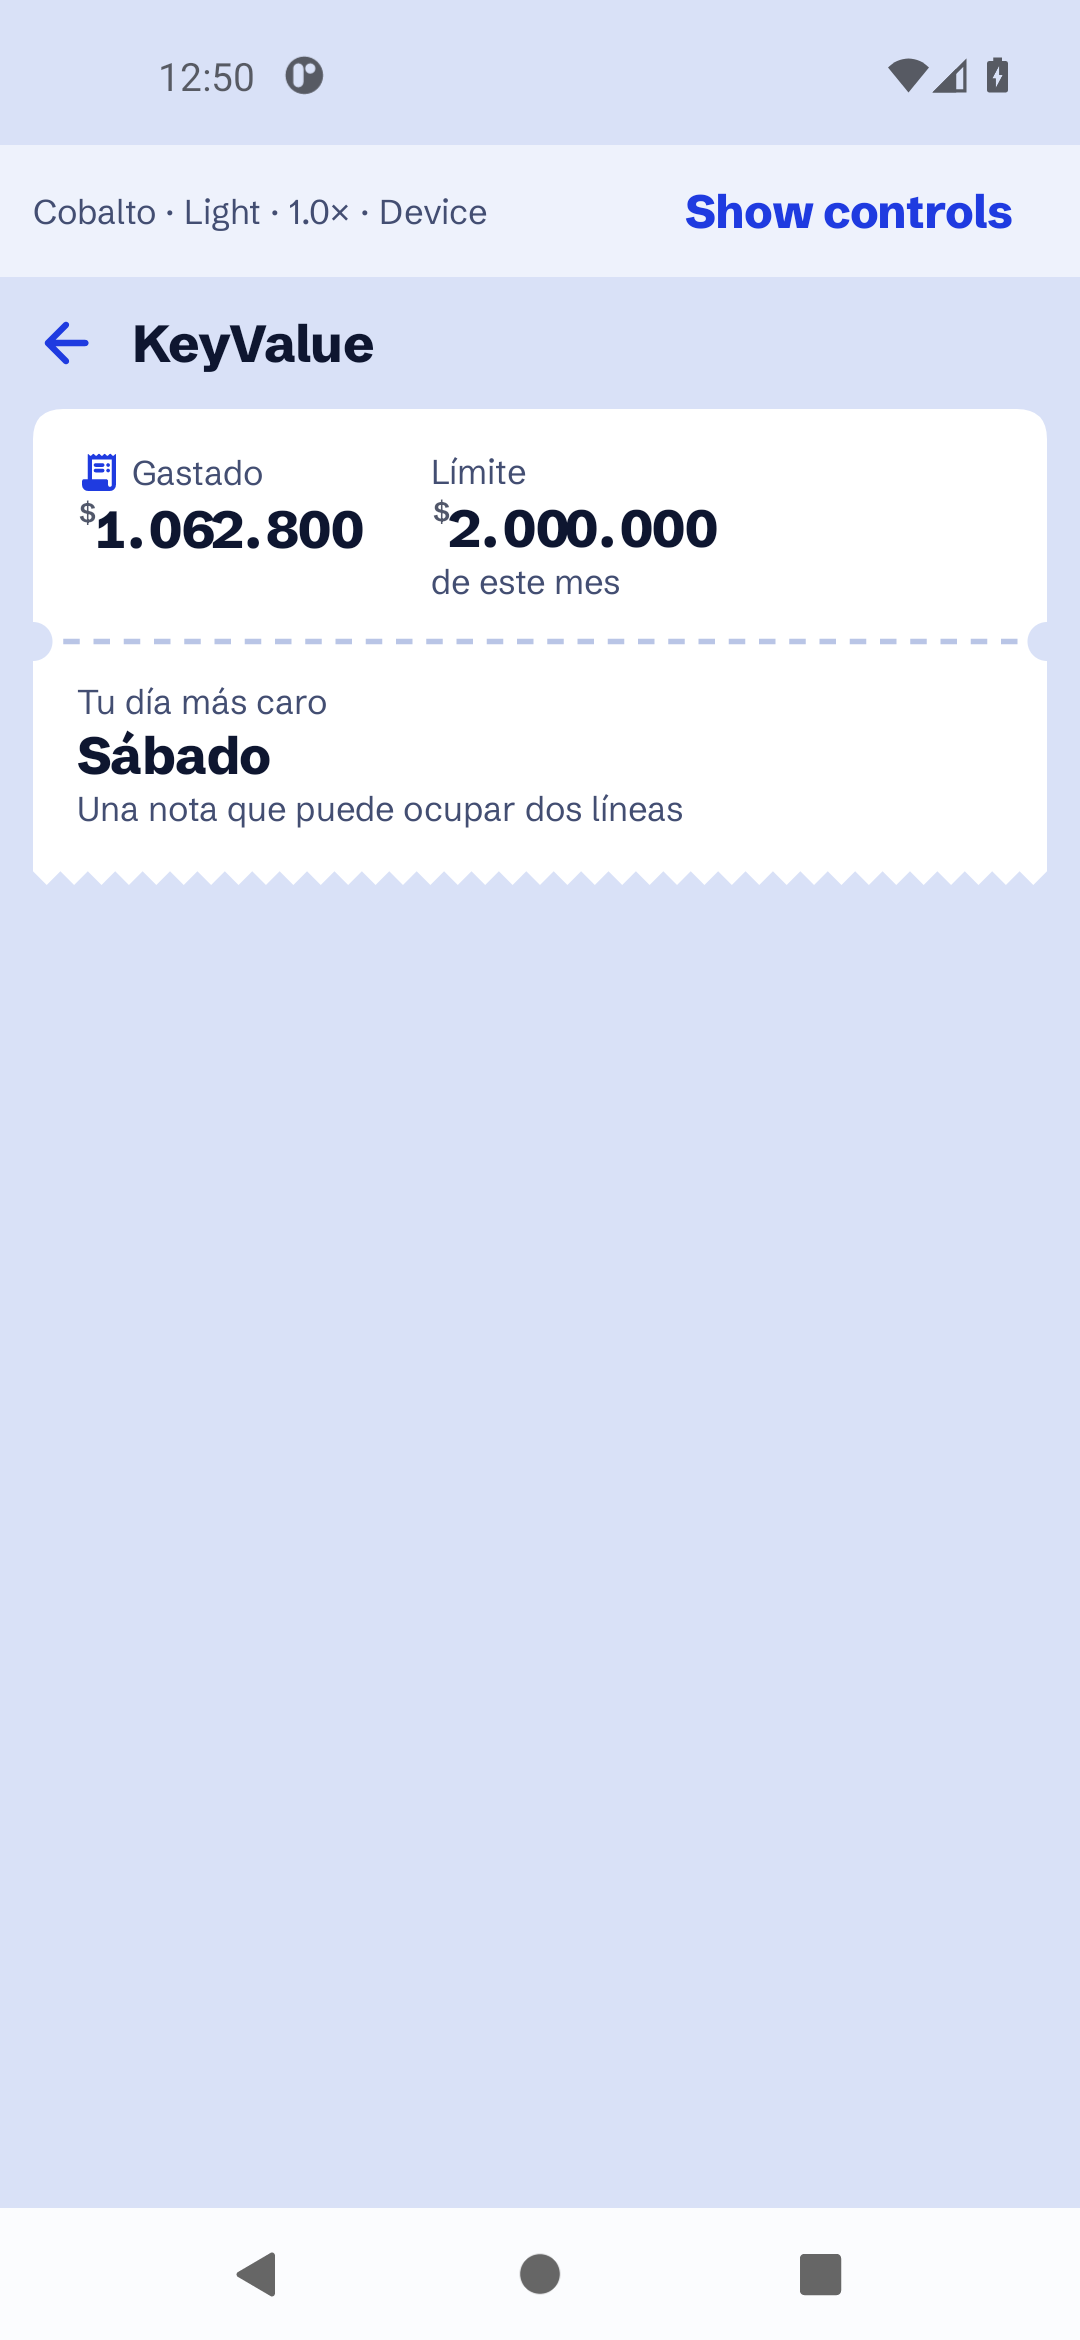
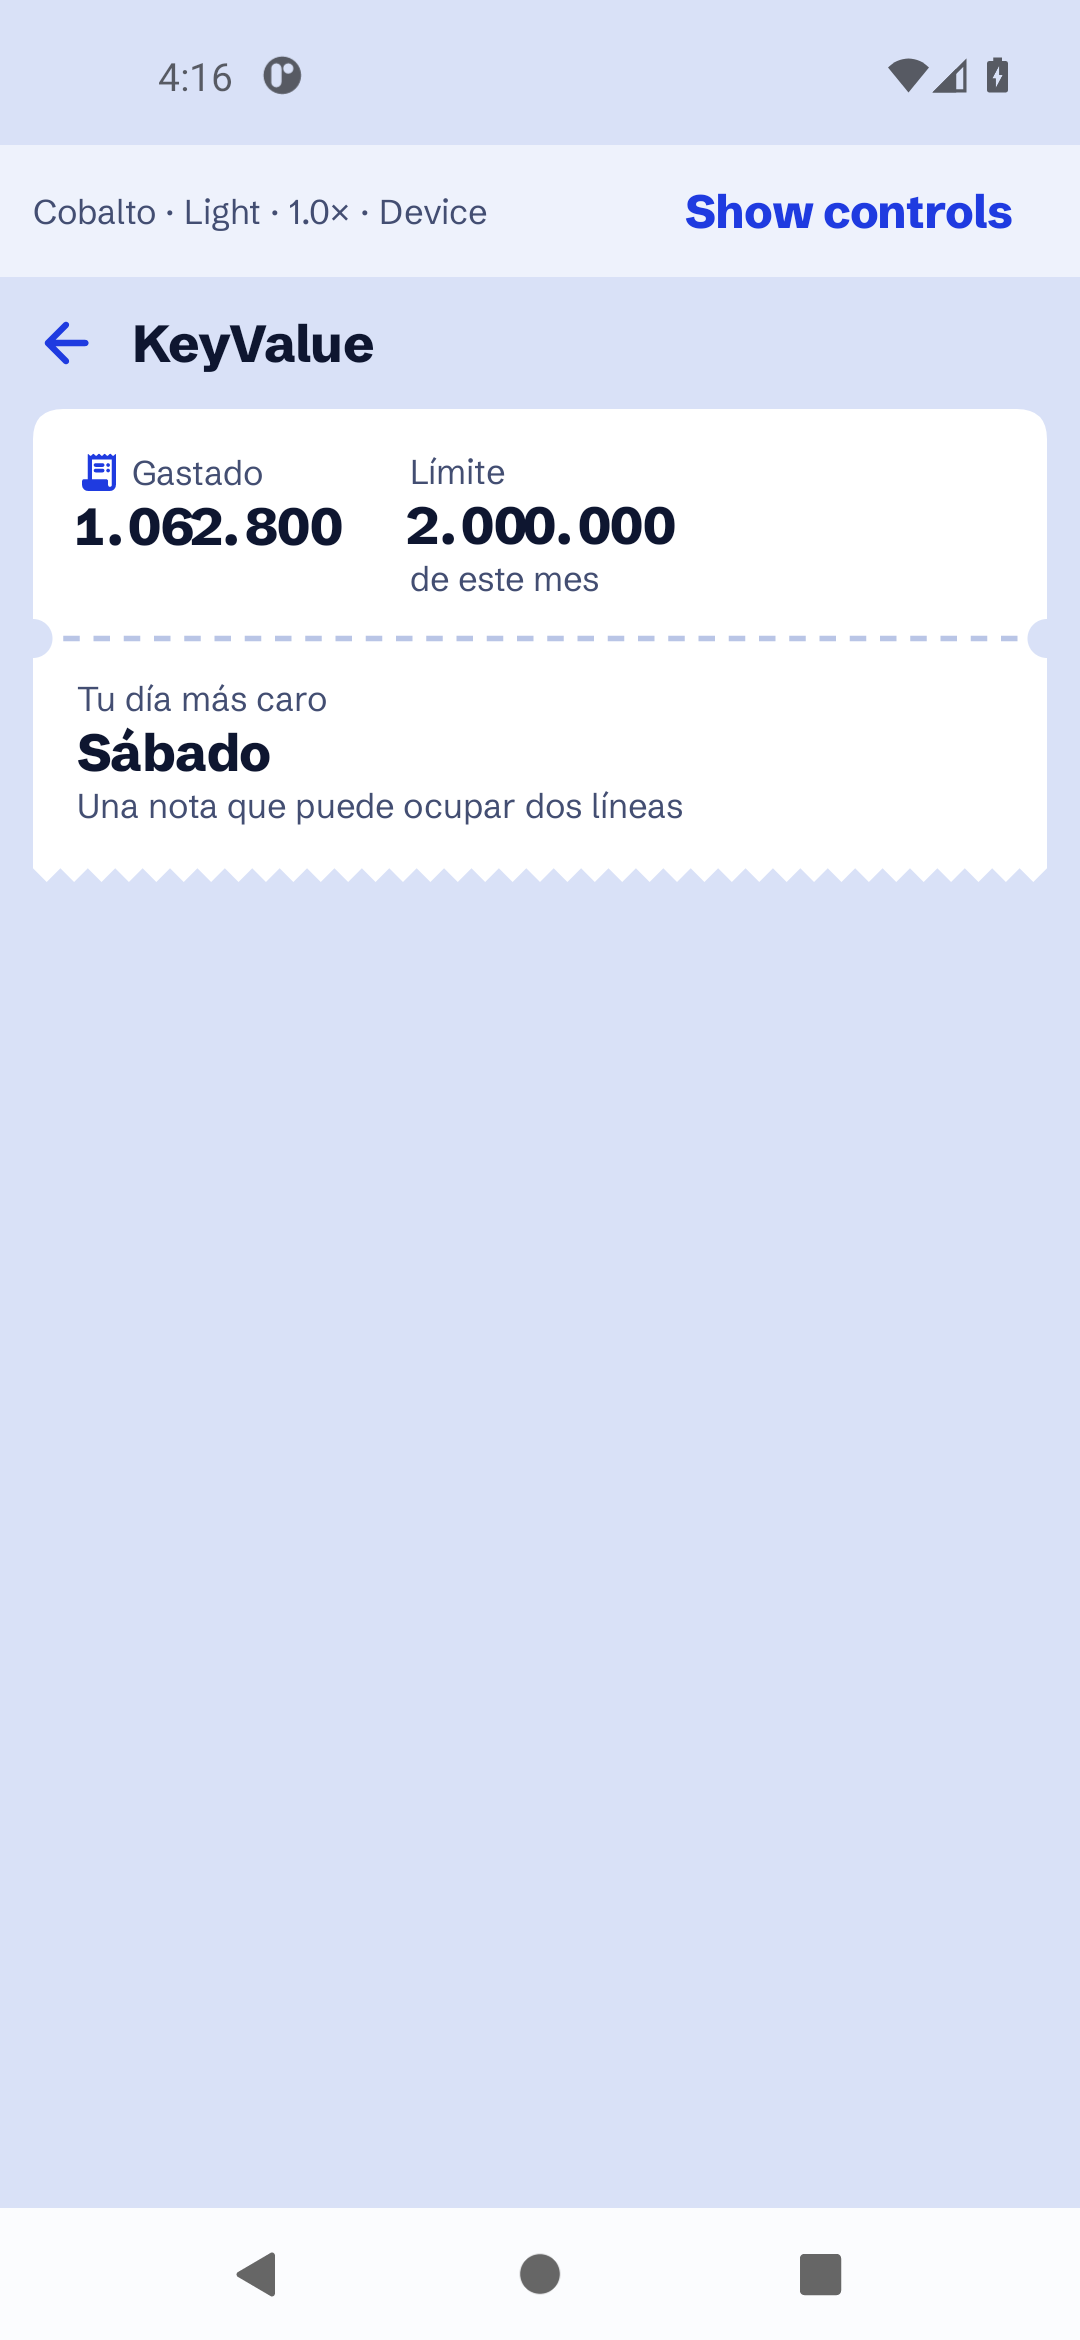
feat: show pesos without a currency symbol and space currency codes

diff --git a/design-system/src/test/java/com/software/sello/designsystem/component/MoneyTextRenderTest.kt b/design-system/src/test/java/com/software/sello/designsystem/component/MoneyTextRenderTest.kt
@@ -9,7 +9,7 @@ import org.junit.Assert.assertTrue
 import org.junit.Test
 
 class MoneyTextRenderTest {
-    private fun value(sign: MoneySign, digits: String, symbol: String = "$") =
+    private fun value(sign: MoneySign, digits: String, symbol: String = "") =
         MoneyTextValue(sign, symbol, digits, "spoken")
 
     private val style = TextStyle(fontSize = 60.sp, letterSpacing = (-0.04).em)
@@ -18,16 +18,16 @@ class MoneyTextRenderTest {
         moneyAnnotatedString(value, style, this.style).text.replace("\u200B", "")
 
     @Test
-    fun theFullFigureIsDrawnWithItsSymbolAndATrueMinus() {
-        assertEquals("$937.200", drawn(value(MoneySign.None, "937.200"), MoneyStyle.Hero))
-        assertEquals("+$850.000", drawn(value(MoneySign.Plus, "850.000"), MoneyStyle.Total))
-        assertEquals("\u2212$10.000", drawn(value(MoneySign.Minus, "10.000"), MoneyStyle.Card))
+    fun theFullFigureIsDrawnWithATrueMinusAndNoMarkForPesos() {
+        assertEquals("937.200", drawn(value(MoneySign.None, "937.200"), MoneyStyle.Hero))
+        assertEquals("+850.000", drawn(value(MoneySign.Plus, "850.000"), MoneyStyle.Total))
+        assertEquals("\u221210.000", drawn(value(MoneySign.Minus, "10.000"), MoneyStyle.Card))
         assertEquals(
-            "\u2212$9.223.372.036.854.775.808",
+            "\u22129.223.372.036.854.775.808",
             drawn(value(MoneySign.Minus, "9.223.372.036.854.775.808"), MoneyStyle.Title)
         )
         assertEquals(
-            "USD2.340,00",
+            "USD\u00A02.340,00",
             drawn(value(MoneySign.None, "2.340,00", "USD"), MoneyStyle.Title)
         )
     }
@@ -55,14 +55,17 @@ class MoneyTextRenderTest {
             style
         ).text
         val pieces = text.split("\u200B")
-        assertEquals(listOf("$9.", "223.", "372.", "036.", "854.", "775.", "807"), pieces)
+        assertEquals(listOf("9.", "223.", "372.", "036.", "854.", "775.", "807"), pieces)
     }
 
     @Test
-    fun thousandsPointsAreTightenedAndTheSymbolIsSmallAndRaised() {
-        val text = moneyAnnotatedString(value(MoneySign.None, "1.234"), MoneyStyle.Hero, style)
-        val symbol = text.spanStyles.last { it.item.fontSize == 0.56.em }
-        assertEquals("$", text.text.substring(symbol.start, symbol.end))
+    fun thousandsPointsAreTightenedAndACurrencyCodeIsSmallAndRaised() {
+        val pesos = moneyAnnotatedString(value(MoneySign.None, "1.234"), MoneyStyle.Hero, style)
+        assertTrue(pesos.spanStyles.none { it.item.fontSize == 0.56.em })
+        val text =
+            moneyAnnotatedString(value(MoneySign.None, "1.234", "USD"), MoneyStyle.Hero, style)
+        val symbol = text.spanStyles.single { it.item.fontSize == 0.56.em }
+        assertEquals("USD\u00A0", text.text.substring(symbol.start, symbol.end))
         assertTrue(symbol.item.baselineShift!!.multiplier > 0f)
         // The style's own -0.04em tracking plus 0.13em of tightening.
         val tight = text.spanStyles.filter { abs(it.item.letterSpacing.value + 0.17f) < 1e-4f }
@@ -76,8 +79,8 @@ class MoneyTextRenderTest {
             MoneyStyle.Title,
             style
         )
-        val wide = text.spanStyles.single { it.item.letterSpacing == 0.14.em }
-        assertEquals("D", text.text.substring(wide.start, wide.end))
+        // The code is followed by a space that cannot become a line break.
+        assertEquals("USD\u00A02.340,00", text.text.replace("\u200B", ""))
         val tight = text.spanStyles.filter { abs(it.item.letterSpacing.value + 0.17f) < 1e-4f }
         assertEquals(
             listOf("2", ".", "0", ","),

diff --git a/design-system/src/androidTest/java/com/software/sello/designsystem/component/MoneySemanticsTest.kt b/design-system/src/androidTest/java/com/software/sello/designsystem/component/MoneySemanticsTest.kt
@@ -27,7 +27,7 @@ class MoneySemanticsTest {
     val rule = createComposeRule()
 
     private fun cop(sign: MoneySign, digits: String, spoken: String) =
-        MoneyTextValue(sign, "$", digits, spoken)
+        MoneyTextValue(sign, "", digits, spoken)
 
     private fun fixture(pesos: Long): MoneyTextValue {
         val digits = pesos.toString().reversed().chunked(3).joinToString(".").reversed()
@@ -62,13 +62,13 @@ class MoneySemanticsTest {
             }
         ) {
             rule.onNodeWithTag("hero").assertContentDescriptionEquals("937.200 pesos")
-            rule.onNodeWithTag("hero").assertTextEquals("$937.200")
+            rule.onNodeWithTag("hero").assertTextEquals("937.200")
             rule.onNodeWithTag("loss").assertContentDescriptionEquals("menos 10.000 pesos")
-            rule.onNodeWithTag("loss").assertTextEquals("\u2212$10.000")
+            rule.onNodeWithTag("loss").assertTextEquals("\u221210.000")
             rule.onNodeWithTag("line").assertContentDescriptionEquals("más 850.000 pesos")
             rule.onNodeWithTag("line").assertTextEquals("+850.000")
             rule.onNodeWithTag("usd").assertContentDescriptionEquals("2.340,00 USD")
-            rule.onNodeWithTag("usd").assertTextEquals("USD2.340,00")
+            rule.onNodeWithTag("usd").assertTextEquals("USD\u00A02.340,00")
         }
     }
 
@@ -102,7 +102,7 @@ class MoneySemanticsTest {
                 rule.onNodeWithTag(tag).assertContentDescriptionEquals(max.spoken)
                 rule.onNodeWithTag(tag).assertTextEquals(
                     if (tag == "hero") {
-                        "\u2212$9.223.372.036.854.775.808"
+                        "\u22129.223.372.036.854.775.808"
                     } else {
                         "\u22129.223.372.036.854.775.808"
                     }
@@ -126,12 +126,12 @@ class MoneySemanticsTest {
             }
         }
         rule.mainClock.advanceTimeByFrame()
-        rule.onNodeWithTag("count").assertTextEquals("$0")
+        rule.onNodeWithTag("count").assertTextEquals("0")
 
         amount = 937_200
         rule.mainClock.advanceTimeByFrame()
         rule.mainClock.advanceTimeByFrame()
-        rule.onNodeWithTag("count").assertTextEquals("$937.200")
+        rule.onNodeWithTag("count").assertTextEquals("937.200")
         rule.onNodeWithTag("count").assertContentDescriptionEquals("937.200 pesos")
     }
 
@@ -146,7 +146,7 @@ class MoneySemanticsTest {
         }
         rule.mainClock.advanceTimeByFrame()
         // The first appearance does not count up from zero.
-        rule.onNodeWithTag("count").assertTextEquals("$0")
+        rule.onNodeWithTag("count").assertTextEquals("0")
 
         amount = 999_999_999_999
         rule.mainClock.advanceTimeBy(200)
@@ -155,10 +155,10 @@ class MoneySemanticsTest {
             .config[androidx.compose.ui.semantics.SemanticsProperties.Text].single().text
         assertTrue(
             "still counting at 200 ms: $midway",
-            midway != "$0" && midway != "$999.999.999.999"
+            midway != "0" && midway != "999.999.999.999"
         )
 
         rule.mainClock.advanceTimeBy(400)
-        rule.onNodeWithTag("count").assertTextEquals("$999.999.999.999")
+        rule.onNodeWithTag("count").assertTextEquals("999.999.999.999")
     }
 }

diff --git a/design-system/src/main/java/com/software/sello/designsystem/component/MoneyText.kt b/design-system/src/main/java/com/software/sello/designsystem/component/MoneyText.kt
@@ -39,7 +39,8 @@ enum class MoneySign { None, Plus, Minus }
  * An amount already formatted by the application: the design system draws it and
  * never computes, rounds or abbreviates it.
  *
- * @param symbol the currency mark drawn small and raised, such as `$` or `USD`.
+ * @param symbol the currency code drawn small and raised before the figure, such as
+ * `USD`; empty for pesos, which carry no mark.
  * @param digits the full grouped figure without sign or symbol, such as `937.200`.
  * @param spoken what a screen reader says, with the currency: `937.200 pesos`.
  */
@@ -51,11 +52,11 @@ data class MoneyTextValue(
     val spoken: String
 )
 
-/** Hero 60sp, Total 44sp, Card 32sp, Title 19sp, Line 14sp. Line drops the symbol. */
+/** Hero 60sp, Total 44sp, Card 32sp, Title 19sp, Line 14sp. Line drops the currency code. */
 enum class MoneyStyle { Hero, Total, Card, Title, Line }
 
 /**
- * The only way an amount is drawn: raised currency mark, tabular figures, tightened
+ * The only way an amount is drawn: tabular figures, a raised currency code, tightened
  * thousands points and a true minus. A figure too wide for its place wraps between
  * groups, never clips; Hero first steps down to Total.
  */
@@ -161,6 +162,9 @@ private fun MoneyStyle.textStyle(weight: FontWeight?): TextStyle {
 private const val TRUE_MINUS = "\u2212"
 private const val ZERO_WIDTH_SPACE = "\u200B"
 private const val GROUP_POINT = '.'
+
+/** A space between a currency code and its figure that never becomes a line break. */
+private const val MARK_GAP = "\u00A0"
 private const val DECIMAL_COMMA = ','
 private const val SYMBOL_ALPHA = 0.72f
 
@@ -173,9 +177,12 @@ private fun signText(sign: MoneySign) = when (sign) {
     MoneySign.Minus -> TRUE_MINUS
 }
 
+private fun markText(value: MoneyTextValue, style: MoneyStyle) =
+    if (style == MoneyStyle.Line || value.symbol.isEmpty()) "" else value.symbol + MARK_GAP
+
 /** The figure as plain characters, for tests and semantics. */
 internal fun moneyPlainText(value: MoneyTextValue, style: MoneyStyle): String =
-    signText(value.sign) + (if (style == MoneyStyle.Line) "" else value.symbol) + value.digits
+    signText(value.sign) + markText(value, style) + value.digits
 
 internal fun moneyAnnotatedString(
     value: MoneyTextValue,
@@ -194,9 +201,7 @@ internal fun moneyAnnotatedString(
             letterSpacing = 0.em,
             color = if (ink.isSpecified) ink.copy(alpha = ink.alpha * SYMBOL_ALPHA) else ink
         )
-        // Only the gap after the mark is widened, not the letters of a code like USD.
-        withStyle(mark) { append(value.symbol.dropLast(1)) }
-        withStyle(mark.copy(letterSpacing = 0.14.em)) { append(value.symbol.takeLast(1)) }
+        withStyle(mark) { append(value.symbol + MARK_GAP) }
     }
     value.digits.forEachIndexed { index, char ->
         val isMark = char == GROUP_POINT || char == DECIMAL_COMMA

diff --git a/app/src/test/java/com/software/sello/presentation/money/MoneyFormatterTest.kt b/app/src/test/java/com/software/sello/presentation/money/MoneyFormatterTest.kt
@@ -42,7 +42,7 @@ class MoneyFormatterTest {
         for ((pesos, digits) in expected) {
             val value = cop(pesos)
             assertEquals(digits, value.digits)
-            assertEquals("$", value.symbol)
+            assertEquals("COP shows no currency mark", "", value.symbol)
             assertEquals(MoneySign.None, value.sign)
         }
     }
@@ -50,7 +50,7 @@ class MoneyFormatterTest {
     @Test
     fun negativesCarryAMinusSignAndKeepEveryDigit() {
         assertEquals(
-            MoneyTextValue(MoneySign.Minus, "$", "10.000", "menos 10.000 COP/other"),
+            MoneyTextValue(MoneySign.Minus, "", "10.000", "menos 10.000 COP/other"),
             cop(-10_000)
         )
         assertEquals(MoneySign.Minus, cop(-1).sign)
@@ -65,10 +65,10 @@ class MoneyFormatterTest {
     fun aPlusAppearsOnlyWhenAskedAndNeverOnZero() {
         assertEquals(MoneySign.None, cop(850_000).sign)
         assertEquals(
-            MoneyTextValue(MoneySign.Plus, "$", "850.000", "más 850.000 COP/other"),
+            MoneyTextValue(MoneySign.Plus, "", "850.000", "más 850.000 COP/other"),
             cop(850_000, signed = true)
         )
-        assertEquals(MoneyTextValue(MoneySign.None, "$", "0", "0 COP/other"), cop(0, signed = true))
+        assertEquals(MoneyTextValue(MoneySign.None, "", "0", "0 COP/other"), cop(0, signed = true))
         assertEquals(MoneySign.Minus, cop(-5, signed = true).sign)
     }
 

diff --git a/design-system/src/androidTest/java/com/software/sello/designsystem/component/PaperAndStampTest.kt b/design-system/src/androidTest/java/com/software/sello/designsystem/component/PaperAndStampTest.kt
@@ -76,7 +76,7 @@ class PaperAndStampTest {
             content = {
                 Slip(modifier = Modifier.testTag("slip"), onClick = { presses++ }) {
                     Text("Te quedan")
-                    MoneyText(MoneyTextValue(MoneySign.None, "$", "937.200", "937.200 pesos"))
+                    MoneyText(MoneyTextValue(MoneySign.None, "", "937.200", "937.200 pesos"))
                 }
             }
         ) {
@@ -94,13 +94,13 @@ class PaperAndStampTest {
             content = {
                 Slip {
                     LeaderLine("Uber", Modifier.testTag("leader"), caption = "Transporte") {
-                        MoneyText(MoneyTextValue(MoneySign.None, "$", "18.400", "18.400 pesos"))
+                        MoneyText(MoneyTextValue(MoneySign.None, "", "18.400", "18.400 pesos"))
                     }
                     LeaderLine("Fecha", "jue 22 oct", Modifier.testTag("plain"))
                     LeaderLine("Abrir", "Detalle", Modifier.testTag("action"), onClick = {})
                     TotalLine("Total", Modifier.testTag("total")) {
                         MoneyText(
-                            MoneyTextValue(MoneySign.None, "$", "126.000", "126.000 pesos"),
+                            MoneyTextValue(MoneySign.None, "", "126.000", "126.000 pesos"),
                             style = MoneyStyle.Title
                         )
                     }

diff --git a/app/src/main/java/com/software/sello/presentation/money/MoneyFormatter.kt b/app/src/main/java/com/software/sello/presentation/money/MoneyFormatter.kt
@@ -43,7 +43,8 @@ class MoneyFormatter(private val labels: MoneyLabels) {
         return MoneyTextValue(sign, symbol(currency), digits, spoken)
     }
 
-    private fun symbol(currency: Currency) = if (currency == Currency.COP) "$" else currency.code
+    /** Pesos carry no mark (ADR 0007); any other currency is named by its code. */
+    private fun symbol(currency: Currency) = if (currency == Currency.COP) "" else currency.code
 
     private fun group(magnitude: String, scale: Int): String {
         val padded = magnitude.padStart(scale + 1, '0')

diff --git a/catalog/src/main/java/com/software/sello/catalog/components/Fixtures.kt b/catalog/src/main/java/com/software/sello/catalog/components/Fixtures.kt
@@ -21,7 +21,7 @@ fun copFixture(pesos: Long, signed: Boolean = false): MoneyTextValue {
         MoneySign.Plus -> "más $digits pesos"
         MoneySign.None -> "$digits pesos"
     }
-    return MoneyTextValue(sign, "$", digits, words)
+    return MoneyTextValue(sign, "", digits, words)
 }
 
 val usdFixture = MoneyTextValue(MoneySign.None, "USD", "2.340,00", "2.340,00 USD")

diff --git a/docs/decisions/0007-no-peso-symbol.md b/docs/decisions/0007-no-peso-symbol.md
@@ -1,0 +1,28 @@
+# 0007 — Pesos are shown without a currency symbol
+
+**Status:** Accepted product direction · **Date:** 2026-10-09
+**Owner/approver:** project owner (user) · **Ticket:** SELLO-007
+
+## Decision
+
+The visual reference draws a small raised `$` before hero, total, card and title
+amounts and brings it back on a receipt's total line. Reviewing the first working
+components, the owner chose to drop it.
+
+- **MUST** show COP amounts with no currency symbol at every size: `937.200`,
+  `+850.000`, `−10.000`. The sign rules and the true minus are unchanged.
+- **MUST** still say the currency to a screen reader: `937.200 pesos`.
+- **MUST** show any other currency as its code, a space, then the figure:
+  `USD 2.340,00`. The space must not become a line break. No such currency can be
+  entered in the MVP.
+
+This supersedes the reference's "How money is written" rule about the peso sign and
+the `$` in its mock-ups; the reference file itself is unchanged. It does not change
+grouping, decimals, abbreviations for chart labels or money semantics.
+
+## Alternatives and consequences
+
+Rejected: keeping the raised `$` as drawn, and showing `COP` as a code. Sello is a
+single-currency COP app in the MVP, so the mark carries no information. If other
+currencies become enterable, whether pesos then need a mark is a new decision.
+`MoneyFormatter` owns the rule; `MoneyText` draws whatever code it is given.

diff --git a/docs/development/money-dates-text.md b/docs/development/money-dates-text.md
@@ -39,7 +39,8 @@ never substitutes zero, empty or a "repaired" value.
 Formatting and drawing have different owners (SELLO-007):
 
 - `MoneyFormatter` in `:app` (`presentation.money`) turns a `Money` into a
-  `MoneyTextValue`: sign, currency mark, the full es-CO grouped figure and the words a
+  `MoneyTextValue`: sign, currency code (none for pesos, ADR 0007), the full es-CO
+  grouped figure and the words a
   screen reader says, taken from string resources through `ResourceMoneyLabels`. It
   never abbreviates; short forms such as `3,53 M` are for chart axes only.
 - `MoneyText` in `:design-system` only draws a `MoneyTextValue`. It does not know
